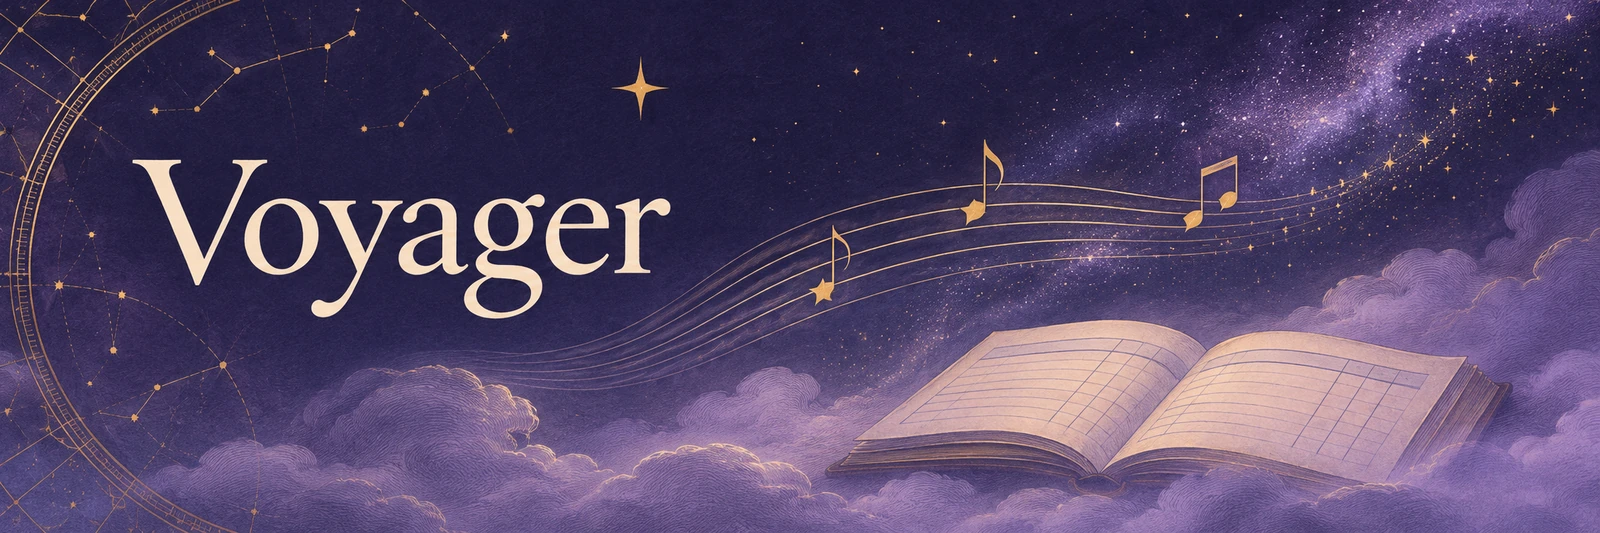
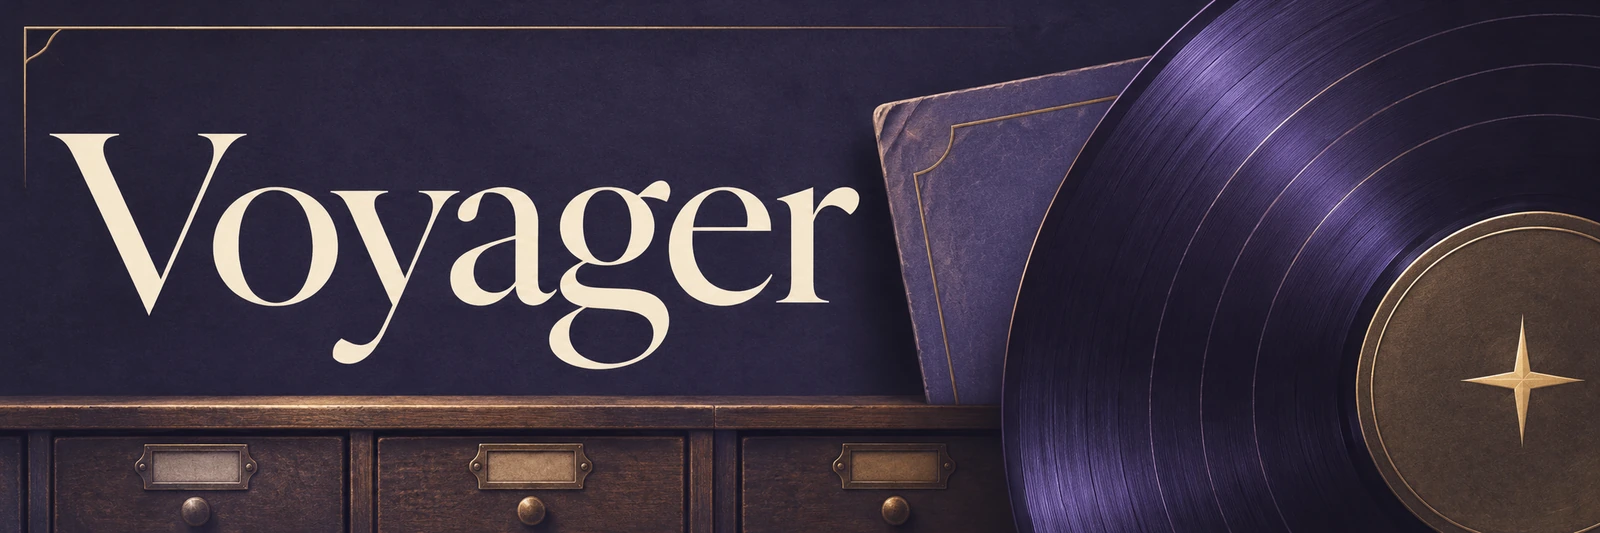
加入 Voyager 航行档案主题并统一应用标识

diff --git a/app/src/main/java/com/yang/jizhang/ui/Theme.kt b/app/src/main/java/com/yang/jizhang/ui/Theme.kt
@@ -64,6 +64,8 @@ enum class JzStyle(
     internal val blurRadius: Int = 0,
     internal val indicator: TabIndicator = TabIndicator.PILL,
 ) {
+    VOYAGER("Voyager", "档案纸、黄铜细线和唱片式页眉", shapeSet(2, 4, 6, 8, 12),
+        titleSize = 30, navRadius = 0, navHeight = 60, indicator = TabIndicator.UNDERLINE),
     GLASS("玻璃", "大圆角卡片和磨砂底栏", shapeSet(8, 12, 16, 22, 28), blurRadius = 22),
     COMPACT("紧凑", "小圆角卡片和实底底栏", shapeSet(6, 8, 12, 14, 18)),
     IOS("苹果 iOS", "大标题、分组卡片和悬浮磨砂底栏", shapeSet(9, 12, 16, 20, 28),
@@ -126,9 +128,9 @@ object ThemePrefs {
         runCatching {
             JzStyle.valueOf(
                 context.getSharedPreferences("jizhang_prefs", Context.MODE_PRIVATE)
-                    .getString(KEY_STYLE, null) ?: JzStyle.GLASS.name
+                    .getString(KEY_STYLE, null) ?: JzStyle.VOYAGER.name
             )
-        }.getOrDefault(JzStyle.GLASS)
+        }.getOrDefault(JzStyle.VOYAGER)
 
     /** 自定义种子色（ARGB），未设置返回 null */
     fun customSeed(context: Context): Int? =
@@ -172,6 +174,15 @@ val JzChartColors = listOf(
     Color(0xFFA78BFA), // 亮紫
 )
 
+private val VoyagerChartColors = listOf(
+    Color(0xFF8274AA), Color(0xFFBD955C), Color(0xFF68849E),
+    Color(0xFF9D6F84), Color(0xFF698777), Color(0xFFAF8067),
+)
+
+@Composable
+internal fun chartColors(): List<Color> =
+    if (LocalJzStyle.current == JzStyle.VOYAGER) VoyagerChartColors else JzChartColors
+
 private class Surfaces(page: Long, card: Long, panel: Long, text: Long, muted: Long, border: Long) {
     val page = Color(page)
     val card = Color(card)
@@ -181,6 +192,8 @@ private class Surfaces(page: Long, card: Long, panel: Long, text: Long, muted: L
     val border = Color(border)
 }
 
+private val voyagerLight = Surfaces(0xFFEDE7D9, 0xFFF9F3E6, 0xFFE3DAC8, 0xFF292638, 0xFF625849, 0xFFB6A080)
+private val voyagerDark = Surfaces(0xFF191827, 0xFF25243C, 0xFF33304B, 0xFFF3E9D5, 0xFFC2B7CC, 0xFF685644)
 private val neutralLight = Surfaces(0xFFFAFAFA, 0xFFFFFFFF, 0xFFF5F5F5, 0xFF404040, 0xFF666666, 0xFFE6E6E6)
 private val neutralDark = Surfaces(0xFF171717, 0xFF262626, 0xFF303030, 0xFFE5E5E5, 0xFFA1A1A1, 0xFF2E2E2E)
 private val iosLight = Surfaces(0xFFF2F2F7, 0xFFFFFFFF, 0xFFE8E8ED, 0xFF17171B, 0xFF606068, 0xFFDADAE0)
@@ -193,6 +206,7 @@ private val inkLight = Surfaces(0xFFF1F1F1, 0xFFFFFFFF, 0xFFE5E5E5, 0xFF111111, 
 private val inkDark = Surfaces(0xFF000000, 0xFF0D0D0D, 0xFF1C1C1C, 0xFFF5F5F5, 0xFFB4B4B4, 0xFF363636)
 
 private fun JzStyle.surfaces(dark: Boolean): Surfaces = when (this) {
+    JzStyle.VOYAGER -> if (dark) voyagerDark else voyagerLight
     JzStyle.IOS -> if (dark) iosDark else iosLight
     JzStyle.ORIGIN_OS -> if (dark) originDark else originLight
     JzStyle.PAPER -> if (dark) paperDark else paperLight
@@ -201,6 +215,7 @@ private fun JzStyle.surfaces(dark: Boolean): Surfaces = when (this) {
 }
 
 internal fun JzStyle.defaultAccent(dark: Boolean): Color = when (this) {
+    JzStyle.VOYAGER -> if (dark) Color(0xFFDEC393) else Color(0xFF725025)
     JzStyle.IOS -> if (dark) Color(0xFF459EFF) else Color(0xFF0063CE)
     JzStyle.ORIGIN_OS -> if (dark) Color(0xFF91B1FF) else Color(0xFF3159CD)
     JzStyle.PAPER -> if (dark) Color(0xFFF0B28A) else Color(0xFF8C3D26)
@@ -239,7 +254,7 @@ internal fun styleColors(style: JzStyle, dark: Boolean, accent: Color): ColorSch
         surfaceTint = accent,
         outline = palette.border,
         outlineVariant = palette.border,
-        error = if (dark) ExpenseDark else ExpenseLight,
+        error = if (dark) ExpenseDark else if (style == JzStyle.VOYAGER) VoyagerExpenseLight else ExpenseLight,
         onError = Color.White,
         errorContainer = if (dark) Color(0xFF3B1A1C) else Color(0xFFFDE9E9),
         onErrorContainer = if (dark) Color(0xFFFFD9D9) else Color(0xFF7F1D1D),
@@ -271,6 +286,9 @@ val JzTypography = Typography(
     labelSmall = TextStyle(fontFamily = Sans, fontWeight = FontWeight.Normal, fontSize = 10.sp),
 )
 
+internal val JzStyle.usesFlatBalance: Boolean
+    get() = this == JzStyle.VOYAGER || this == JzStyle.PAPER || this == JzStyle.INK
+
 internal val LocalJzStyle = androidx.compose.runtime.staticCompositionLocalOf { JzStyle.GLASS }
 
 @Composable
@@ -279,6 +297,7 @@ internal fun PageTitle(text: String, modifier: androidx.compose.ui.Modifier = an
     androidx.compose.material3.Text(
         text,
         modifier = modifier,
+        fontFamily = if (style == JzStyle.VOYAGER) FontFamily.Serif else null,
         fontSize = style.titleSize.sp,
         fontWeight = style.titleWeight,
         letterSpacing = (-0.3).sp,
@@ -288,11 +307,22 @@ internal fun PageTitle(text: String, modifier: androidx.compose.ui.Modifier = an
 /** 实际生效的深浅模式（强制浅/深色时与系统不一致，语义色据此取值） */
 val LocalJzDark = androidx.compose.runtime.staticCompositionLocalOf { true }
 
-@Composable
-fun incomeColor(): Color = if (LocalJzDark.current) IncomeDark else IncomeLight
+private val VoyagerIncomeLight = Color(0xFF08613E)
+private val VoyagerExpenseLight = Color(0xFF9D2733)
 
 @Composable
-fun expenseColor(): Color = if (LocalJzDark.current) ExpenseDark else ExpenseLight
+fun incomeColor(): Color = when {
+    LocalJzDark.current -> IncomeDark
+    LocalJzStyle.current == JzStyle.VOYAGER -> VoyagerIncomeLight
+    else -> IncomeLight
+}
+
+@Composable
+fun expenseColor(): Color = when {
+    LocalJzDark.current -> ExpenseDark
+    LocalJzStyle.current == JzStyle.VOYAGER -> VoyagerExpenseLight
+    else -> ExpenseLight
+}
 
 @Composable
 fun warnColor(): Color = if (LocalJzDark.current) WarnDark else WarnLight
@@ -305,7 +335,7 @@ fun accentColor(): Color = MaterialTheme.colorScheme.primary
 fun JizhangTheme(
     darkTheme: Boolean = isSystemInDarkTheme(),
     preset: JzPreset = JzPreset.STYLE,
-    style: JzStyle = JzStyle.GLASS,
+    style: JzStyle = JzStyle.VOYAGER,
     customSeed: Int? = null,
     powerSaving: Boolean = false,
     content: @Composable () -> Unit,

diff --git a/app/src/main/java/com/yang/jizhang/ui/HomeTab.kt b/app/src/main/java/com/yang/jizhang/ui/HomeTab.kt
@@ -1,5 +1,6 @@
 package com.yang.jizhang.ui
 
+import androidx.compose.foundation.Canvas
 import androidx.compose.foundation.background
 import androidx.compose.foundation.clickable
 import androidx.compose.foundation.layout.Arrangement
@@ -38,8 +39,11 @@ import androidx.compose.ui.Modifier
 import androidx.compose.ui.draw.clip
 import androidx.compose.ui.draw.shadow
 import androidx.compose.ui.graphics.Color
+import androidx.compose.ui.graphics.Path
+import androidx.compose.ui.graphics.drawscope.Stroke
 import androidx.compose.ui.graphics.compositeOver
 import androidx.compose.ui.platform.LocalContext
+import androidx.compose.ui.text.font.FontFamily
 import androidx.compose.ui.text.font.FontWeight
 import androidx.compose.ui.unit.dp
 import androidx.compose.ui.unit.sp
@@ -108,14 +112,27 @@ fun HomeTab(
         ),
     ) {
         item(key = "header") {
-            Column(Modifier.fillMaxWidth().statusBarsPadding().padding(horizontal = 20.dp, vertical = 12.dp)) {
-                PageTitle("账本")
-                Spacer(Modifier.height(2.dp))
-                Text(
-                    "$monthLabel · 花完钱自动记账",
-                    fontSize = 13.sp,
-                    color = MaterialTheme.colorScheme.onSurfaceVariant,
-                )
+            val voyager = LocalJzStyle.current == JzStyle.VOYAGER
+            val scheme = MaterialTheme.colorScheme
+            Column(
+                Modifier.fillMaxWidth().statusBarsPadding().padding(horizontal = 20.dp, vertical = 12.dp),
+            ) {
+                Row(verticalAlignment = Alignment.CenterVertically) {
+                    Column(Modifier.weight(1f)) {
+                        PageTitle("账本")
+                        Spacer(Modifier.height(2.dp))
+                        Text(
+                            if (voyager) monthLabel else "$monthLabel · 花完钱自动记账",
+                            fontSize = 13.sp,
+                            color = scheme.onSurfaceVariant,
+                        )
+                    }
+                    if (voyager) VoyagerMark(scheme.primary)
+                }
+                if (voyager) {
+                    Spacer(Modifier.height(12.dp))
+                    HorizontalDivider(color = scheme.outline)
+                }
             }
         }
 
@@ -164,7 +181,7 @@ fun HomeTab(
             val scheme = MaterialTheme.colorScheme
             val accent = scheme.primary
             val onAccent = scheme.onPrimary
-            val flat = style == JzStyle.PAPER || style == JzStyle.INK
+            val flat = style.usesFlatBalance
             val cardText = if (flat) scheme.onSurface else onAccent
             val shadow = if (flat) 0.dp else 8.dp
             Surface(
@@ -194,13 +211,14 @@ fun HomeTab(
                         cents = balance,
                         fontSize = if (style == JzStyle.ORIGIN_OS) 42.sp else 36.sp,
                         color = cardText,
+                        fontFamily = if (style == JzStyle.VOYAGER) FontFamily.Serif else null,
                     )
                     Spacer(Modifier.height(14.dp))
                     Box(
                         Modifier
                             .fillMaxWidth()
                             .height(0.5.dp)
-                            .background(cardText.copy(alpha = 0.25f)),
+                            .background(if (style == JzStyle.VOYAGER) scheme.outline else cardText.copy(alpha = 0.25f)),
                     )
                     Spacer(Modifier.height(14.dp))
                     Row(verticalAlignment = Alignment.CenterVertically) {
@@ -311,6 +329,28 @@ private fun formatDay(millis: Long): String {
             "%02d:%02d".format(cal.get(Calendar.HOUR_OF_DAY), cal.get(Calendar.MINUTE))
         else -> "%d月%d日".format(cal.get(Calendar.MONTH) + 1, cal.get(Calendar.DAY_OF_MONTH)) +
             " %02d:%02d".format(cal.get(Calendar.HOUR_OF_DAY), cal.get(Calendar.MINUTE))
+    }
+}
+
+@Composable
+private fun VoyagerMark(tint: Color) {
+    Canvas(Modifier.size(40.dp)) {
+        val stroke = Stroke(0.75.dp.toPx())
+        drawCircle(tint.copy(alpha = 0.68f), size.minDimension * 0.48f, style = stroke)
+        drawCircle(tint.copy(alpha = 0.42f), size.minDimension * 0.38f, style = stroke)
+        val x = center.x
+        val y = center.y
+        val r = size.minDimension * 0.29f
+        val inset = r * 0.16f
+        val star = Path().apply {
+            moveTo(x, y - r)
+            quadraticTo(x + inset, y - inset, x + r, y)
+            quadraticTo(x + inset, y + inset, x, y + r)
+            quadraticTo(x - inset, y + inset, x - r, y)
+            quadraticTo(x - inset, y - inset, x, y - r)
+            close()
+        }
+        drawPath(star, tint)
     }
 }
 

diff --git a/app/src/main/java/com/yang/jizhang/ui/StatsTab.kt b/app/src/main/java/com/yang/jizhang/ui/StatsTab.kt
@@ -52,6 +52,7 @@ fun StatsTab(
     onMonthChange: (Int, Int) -> Unit,
 ) {
     var mode by rememberSaveable { mutableStateOf("month") }
+    val chartPalette = chartColors()
     val isYear = mode == "year"
 
     // ── 月模式数据 ──
@@ -389,7 +390,7 @@ fun StatsTab(
             item(key = "pie_card") {
                 val incomeTotalView = incomeTop.sumOf { it.second }
                 val pieData = incomeTop.mapIndexed { i, (cat, cents, _) ->
-                    ChartEntry(cat, cents.toDouble(), JzChartColors[i % JzChartColors.size])
+                    ChartEntry(cat, cents.toDouble(), chartPalette[i % chartPalette.size])
                 }
                 Surface(
                     color = MaterialTheme.colorScheme.surface,
@@ -414,7 +415,7 @@ fun StatsTab(
                                         Modifier
                                             .size(10.dp)
                                             .clip(RoundedCornerShape(3.dp))
-                                            .background(JzChartColors[i % JzChartColors.size]),
+                                            .background(chartPalette[i % chartPalette.size]),
                                     )
                                     Spacer(Modifier.width(8.dp))
                                     Text(cat, fontSize = 13.sp, maxLines = 1, modifier = Modifier.weight(1f))

diff --git a/app/src/main/java/com/yang/jizhang/ui/UiKit.kt b/app/src/main/java/com/yang/jizhang/ui/UiKit.kt
@@ -346,6 +346,7 @@ fun AnimatedAmountText(
     fontWeight: FontWeight = FontWeight.SemiBold,
     letterSpacing: androidx.compose.ui.unit.TextUnit = (-0.5).sp,
     color: Color = MaterialTheme.colorScheme.onSurface,
+    fontFamily: androidx.compose.ui.text.font.FontFamily? = null,
 ) {
     // 分→显示值的 Long 转换器（animation-core 无内置 Long converter）
     val centsConverter = remember {
@@ -369,6 +370,7 @@ fun AnimatedAmountText(
         fmtCents(shown),
         fontSize = fontSize,
         fontWeight = fontWeight,
+        fontFamily = fontFamily,
         letterSpacing = letterSpacing,
         color = color,
         modifier = modifier,

diff --git a/app/src/main/java/com/yang/jizhang/ui/AppRoot.kt b/app/src/main/java/com/yang/jizhang/ui/AppRoot.kt
@@ -558,7 +558,7 @@ private fun JzBottomBar(
     Surface(
         color = if (blur) scheme.surface.copy(alpha = 0.78f) else scheme.surface,
         shape = shape,
-        border = if (floating || style == JzStyle.PAPER || style == JzStyle.INK)
+        border = if (floating || style.usesFlatBalance)
             BorderStroke(1.dp, scheme.outlineVariant) else null,
         shadowElevation = if (floating) 5.dp else 0.dp,
         modifier = Modifier.fillMaxWidth().then(frame),

diff --git a/app/src/main/java/com/yang/jizhang/ui/SettingsTab.kt b/app/src/main/java/com/yang/jizhang/ui/SettingsTab.kt
@@ -564,7 +564,7 @@ private fun StyleCard(style: JzStyle, selected: Boolean, modifier: Modifier = Mo
 
 @Composable
 private fun StyleThumbnail(style: JzStyle, scheme: androidx.compose.material3.ColorScheme) {
-    val flat = style == JzStyle.PAPER || style == JzStyle.INK
+    val flat = style.usesFlatBalance
     val nav = RoundedCornerShape((style.navRadius / 2).dp)
     Column(
         Modifier.fillMaxWidth().clip(MaterialTheme.shapes.small)
